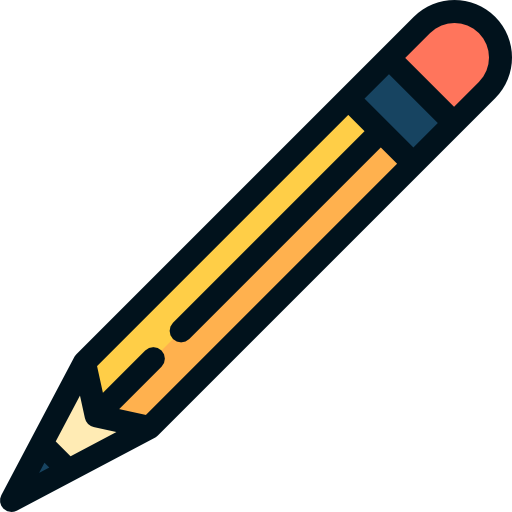
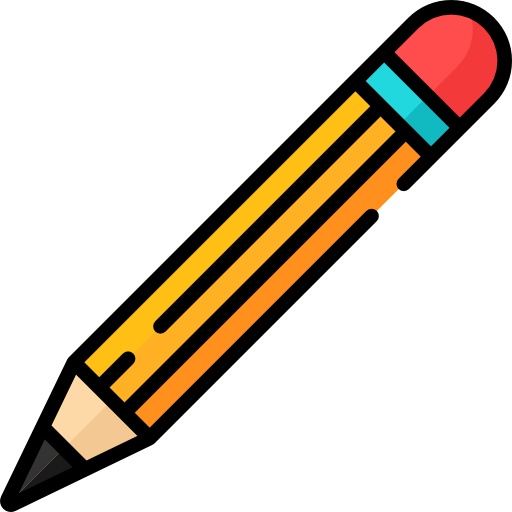
style: Implemented significant style changes to select user and create user pages
Source images were also changed out for user profiles, certain button actions were also modified.

Changed region(s): [[0.0, 0.0, 1.0, 1.0]]

diff --git a/src/main/resources/css/profile.css b/src/main/resources/css/profile.css
@@ -1,0 +1,38 @@
+@import url('https://fonts.googleapis.com/css2?family=Gorditas&family=Viga&display=swap');
+
+#prevUser{
+    -fx-background-image: url(../images/left-arrow.png);
+}
+
+#nextUser{
+    -fx-background-image: url(../images/right-arrow.png) ;
+}
+
+#prevUser, #nextUser{
+    -fx-background-repeat: no-repeat;
+    -fx-background-size: 34px;
+    -fx-background-position: center;
+}
+
+
+#passwordHbox, .label{
+    -fx-text-fill: #3b3b3b;
+}
+
+#userLabel {
+    -fx-font-family: "Gorditas", cursive;
+    -fx-text-fill: #157d20;
+}
+
+#imagePane{
+    -fx-background-radius: 50px;
+    -fx-background-size: 100px;
+    -fx-border-radius: 50px;
+}
+
+#topTitle, #bottomTitle {
+    -fx-font-size: 140;
+    -fx-alignment: center;
+    -fx-font-family: "Gorditas", cursive;
+    -fx-text-fill: #cc960e;
+}

diff --git a/src/main/resources/css/app.css b/src/main/resources/css/app.css
@@ -1,6 +1,6 @@
 @import url('https://fonts.googleapis.com/css2?family=Gorditas&family=Viga&display=swap');
 
-Button {
+.button {
     -fx-text-fill: "white";
     -fx-font-size: 25px;
     -fx-background-radius: 35px;
@@ -12,12 +12,18 @@ Button {
     -fx-cursor: hand;
 }
 
-Label{
-    -fx-font-family: 'Viga', sans-serif;
-}
-
-Button:hover{
+.button:hover{
     -fx-background-color: #157d20;
     -fx-background-radius: 40px;
 
+}
+
+.root {
+    -fx-background-color: #c7dbb2;
+    -fx-background-image: url(../images/doodles.gif);
+}
+
+
+.label{
+    -fx-font-family: 'Viga', sans-serif;
 }

diff --git a/src/main/resources/css/canvas.css b/src/main/resources/css/canvas.css
@@ -1,11 +1,8 @@
 @import url('https://fonts.googleapis.com/css2?family=Gorditas&family=Viga&display=swap');
 
 .root {
-    -fx-background-color: #c7dbb2;
-    -fx-background-image: url(../images/doodles.gif);
     -fx-font-family: 'Viga', sans-serif;
 }
-
 
 #canvasPane {
     -fx-border-width: 5px;

diff --git a/src/main/resources/css/menu.css b/src/main/resources/css/menu.css
@@ -1,9 +1,5 @@
 @import url('https://fonts.googleapis.com/css2?family=Gorditas&family=Viga&display=swap');
 
-.root {
-    -fx-background-color: #c7dbb2;
-    -fx-background-image: url(../images/doodles.gif);
-}
 
 .button{
     -fx-font-size: 30px;

diff --git a/src/main/java/nz/ac/auckland/se206/ProfileController.java b/src/main/java/nz/ac/auckland/se206/ProfileController.java
@@ -15,6 +15,7 @@ import javafx.scene.control.Label;
 import javafx.scene.control.PasswordField;
 import javafx.scene.image.Image;
 import javafx.scene.image.ImageView;
+import javafx.scene.layout.VBox;
 import javafx.stage.Stage;
 import nz.ac.auckland.se206.userutils.Database;
 import nz.ac.auckland.se206.userutils.User;
@@ -25,16 +26,19 @@ public class ProfileController {
   private @FXML PasswordField password;
   private final Database data = new Database();
   private @FXML Label userLabel;
+  private @FXML VBox loginVbox;
   private @FXML Button nextUser;
   private @FXML Button prevUser;
   private @FXML ImageView userImage;
   private int userIndex = -1;
-  private File[] allUserImages = new File("src/main/resources/profilepics").listFiles();
+  private File[] allUserImages = new File("src/main/resources/images/profilepics").listFiles();
 
   @FXML
   private void toggleThroughUsers(ActionEvent event) throws IOException {
     Button sourceButton = (Button) event.getSource();
+
     User[] users = data.getAllUsers();
+
     if (users.length == 0) {
       Alert alert = new Alert(AlertType.INFORMATION);
       alert.setHeaderText("No users found, please create a profile!");
@@ -42,7 +46,7 @@ public class ProfileController {
       alert.show();
       return;
     }
-    password.setDisable(false);
+
     if (sourceButton.equals(nextUser)) {
       if (userIndex < users.length - 1) {
         userIndex++;
@@ -55,11 +59,22 @@ public class ProfileController {
         setUserInfoToGui(userIndex);
       }
     }
+
+    loginVbox.setVisible(true);
+
+    if (userIndex == 0) {
+      prevUser.setVisible(false);
+    } else if (userIndex == users.length - 1) {
+      nextUser.setVisible(false);
+    } else {
+      prevUser.setVisible(true);
+      nextUser.setVisible(true);
+    }
   }
 
   private void setUserInfoToGui(int currentUserIndex) throws IOException {
     User[] users = data.getAllUsers();
-    Image img = new Image("/profilepics/" + allUserImages[userIndex].getName());
+    Image img = new Image("/images/profilepics/" + allUserImages[userIndex].getName());
     userImage.setImage(img);
     userLabel.setText(users[userIndex].getUserName());
     password.clear();
